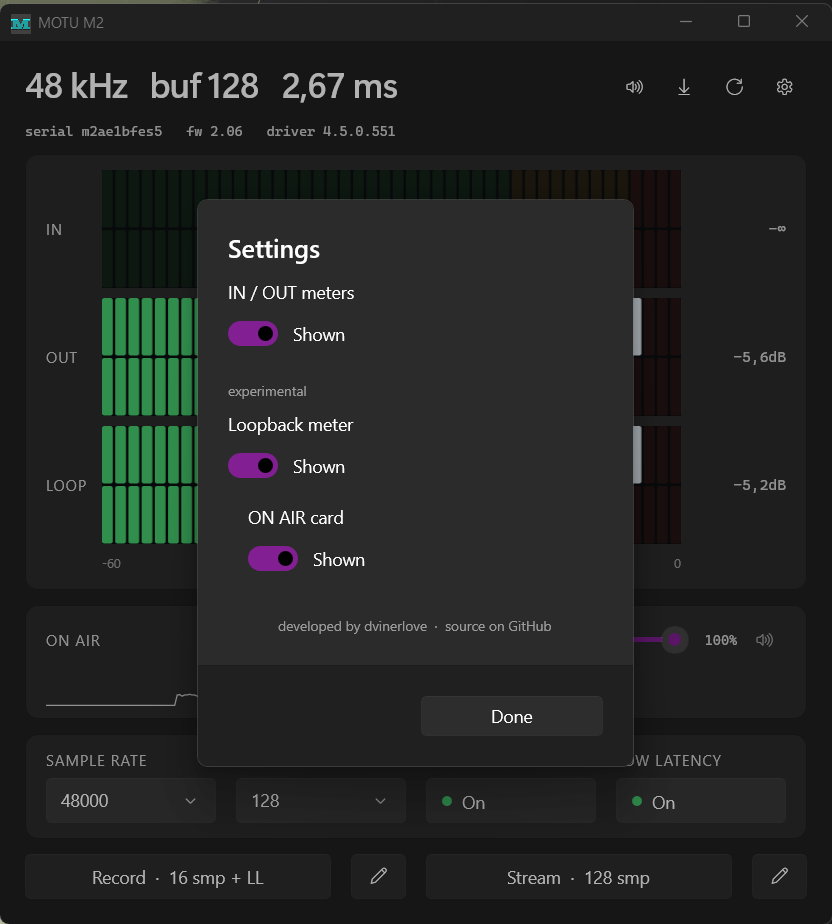
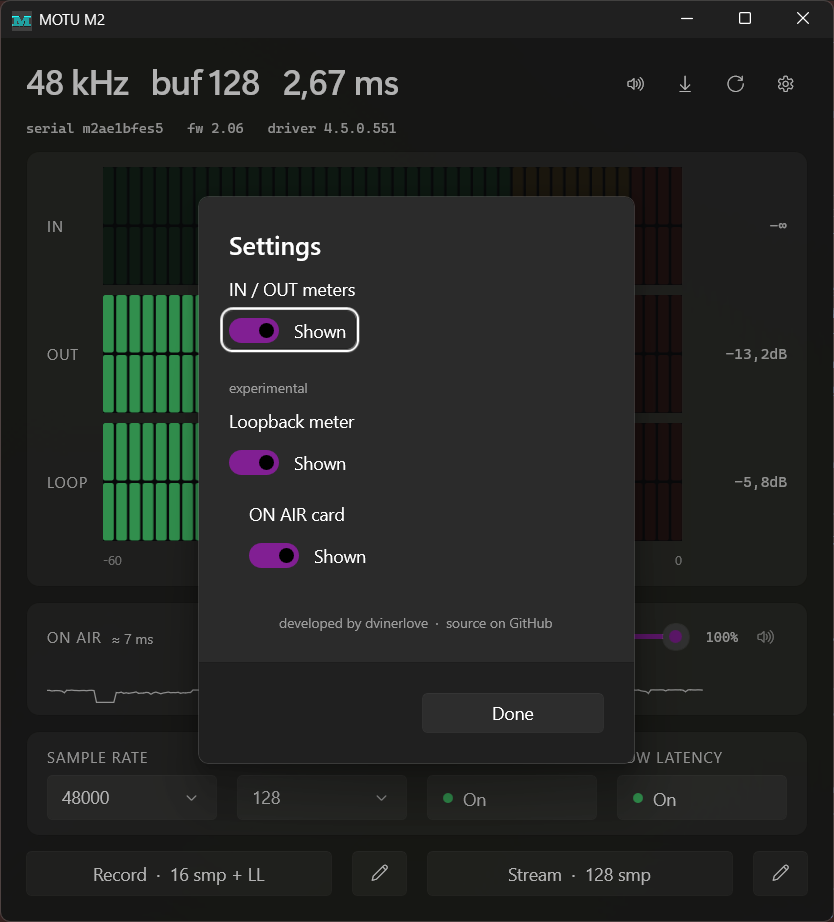
v1.2.0: settings dialog, hotplug overlay, copy pass
Fresh screenshots: live meters during test tone, settings dialog.
UI copy rewritten without em-dash asides. Version bump to 1.2.0.

Generated with [Devin](https://devin.ai)

diff --git a/MainWindow.xaml b/MainWindow.xaml
@@ -22,7 +22,7 @@
             <StackPanel Orientation="Horizontal" Spacing="4" HorizontalAlignment="Right" VerticalAlignment="Center">
                 <Button x:Name="BtnTest" Padding="10" MinWidth="36" MinHeight="32"
                         Background="Transparent" BorderThickness="0"
-                        ToolTipService.ToolTip="play a test tone through the device — watch OUT and LOOP light up">
+                        ToolTipService.ToolTip="play a test tone through the device: watch OUT and LOOP light up">
             <Button.Resources>
                 <StaticResource x:Key="ButtonBackgroundPointerOver" ResourceKey="SubtleFillColorSecondaryBrush"/>
                 <StaticResource x:Key="ButtonBackgroundPressed" ResourceKey="SubtleFillColorTertiaryBrush"/>
@@ -111,7 +111,7 @@
                            Style="{ThemeResource CaptionTextBlockStyle}" CharacterSpacing="60"
                            Foreground="{ThemeResource TextFillColorSecondaryBrush}"/>
                 <Grid x:Name="MeterLoopHost" Grid.Row="2" Grid.Column="1" Margin="12,0" MinHeight="28"
-                      ToolTipService.ToolTip="loopback — playback audio as recorders hear it (what OBS captures); click to reset clip"/>
+                      ToolTipService.ToolTip="loopback: playback audio as recorders hear it (what OBS captures). Click to reset clip"/>
                 <TextBlock x:Name="DbLoop" Grid.Row="2" Grid.Column="2" VerticalAlignment="Center"
                            FontFamily="Cascadia Mono, Consolas" FontSize="12" Width="72" Text="-&#x221E;"
                            TextAlignment="Right"
@@ -139,7 +139,7 @@
                                    Foreground="{ThemeResource TextFillColorSecondaryBrush}"/>
                         <Border x:Name="MixBadge" Padding="5,0" CornerRadius="4" Visibility="Collapsed"
                                 Background="#22EBAF37" BorderBrush="#EBAF37" BorderThickness="1"
-                                ToolTipService.ToolTip="Loopback Mix is live — your mic rides the bus too, echo risk on stream">
+                                ToolTipService.ToolTip="Loopback Mix is live: your mic rides the bus too, echo risk on stream">
                             <TextBlock Text="MIX" FontSize="10" Foreground="#EBAF37"/>
                         </Border>
                         <TextBlock x:Name="LoopNote" VerticalAlignment="Center" FontSize="11"
@@ -148,13 +148,13 @@
                     <StackPanel Orientation="Horizontal" Spacing="6" HorizontalAlignment="Right" VerticalAlignment="Center">
                         <Slider x:Name="LoopLevel" Width="110" Minimum="0" Maximum="100" StepFrequency="5"
                                 VerticalAlignment="Center"
-                                ToolTipService.ToolTip="bus level — how loud the stream hears this bus, independent of your headphone volume"/>
+                                ToolTipService.ToolTip="bus level: how loud the stream hears this bus, independent of your headphone volume"/>
                         <TextBlock x:Name="LoopLevelText" Text="100%" Width="34" VerticalAlignment="Center"
                                    FontFamily="Cascadia Mono, Consolas" FontSize="11" TextAlignment="Right"
                                    Foreground="{ThemeResource TextFillColorSecondaryBrush}"/>
                         <Button x:Name="BtnLoopMute" Padding="10" MinWidth="32" MinHeight="28"
                                 Background="Transparent" BorderThickness="0"
-                                ToolTipService.ToolTip="mute the loopback bus — recorders hear nothing until you unmute">
+                                ToolTipService.ToolTip="mute the loopback bus. Recorders hear nothing until you unmute">
                             <Button.Resources>
                                 <StaticResource x:Key="ButtonBackgroundPointerOver" ResourceKey="SubtleFillColorSecondaryBrush"/>
                                 <StaticResource x:Key="ButtonBackgroundPressed" ResourceKey="SubtleFillColorTertiaryBrush"/>
@@ -168,7 +168,7 @@
 
                 <TextBlock x:Name="LoopWarn" Grid.Row="1" Visibility="Collapsed" FontSize="11"
                            Foreground="#EBAF37"
-                           Text="OUT is playing but the loop stays silent — recorders may be hearing nothing"/>
+                           Text="OUT is playing but the loop stays silent; recorders may be hearing nothing"/>
 
                 <StackPanel x:Name="AirSessions" Grid.Row="2" Spacing="4"/>
                 <Grid x:Name="AirHistoryHost" Grid.Row="3"/>
@@ -201,7 +201,7 @@
                                Foreground="{ThemeResource TextFillColorSecondaryBrush}"/>
                     <Button x:Name="SrcSwitch" HorizontalAlignment="Stretch" Height="36"
                             Padding="12,0" HorizontalContentAlignment="Left"
-                            ToolTipService.ToolTip="sync Windows sample rate to the device — on: bit-exact when everything matches; off: the driver resamples Windows audio so apps at any rate work">
+                            ToolTipService.ToolTip="sync Windows sample rate to the device. On: bit-exact when everything matches. Off: the driver resamples Windows audio so apps at any rate work">
                         <StackPanel Orientation="Horizontal" Spacing="8">
                             <Ellipse x:Name="SrcDot" Width="8" Height="8" VerticalAlignment="Center"
                                      Fill="{ThemeResource TextFillColorTertiaryBrush}"/>
@@ -215,7 +215,7 @@
                                Foreground="{ThemeResource TextFillColorSecondaryBrush}"/>
                     <Button x:Name="LlSwitch" HorizontalAlignment="Stretch" Height="36"
                             Padding="12,0" HorizontalContentAlignment="Left"
-                            ToolTipService.ToolTip="stock panel's &quot;lowest latency safety offsets&quot; — cuts extra driver buffering for live monitoring; keep off for stable playback">
+                            ToolTipService.ToolTip="stock panel's &quot;lowest latency safety offsets&quot;: cuts extra driver buffering for live monitoring. Keep off for stable playback">
                         <StackPanel Orientation="Horizontal" Spacing="8">
                             <Ellipse x:Name="LlDot" Width="8" Height="8" VerticalAlignment="Center"
                                      Fill="{ThemeResource TextFillColorTertiaryBrush}"/>
@@ -264,7 +264,7 @@
                 <StackPanel x:Name="WatchRow" Orientation="Horizontal" Spacing="8"
                             HorizontalAlignment="Center" Margin="0,22,0,0">
                     <Ellipse x:Name="WatchDot" Width="7" Height="7" VerticalAlignment="Center" Fill="#46CD6E"/>
-                    <TextBlock Text="watching for it — plug and play" FontSize="11"
+                    <TextBlock Text="watching for it" FontSize="11"
                                VerticalAlignment="Center"
                                Foreground="{ThemeResource TextFillColorTertiaryBrush}"/>
                 </StackPanel>

diff --git a/MainWindow.xaml.cs b/MainWindow.xaml.cs
@@ -280,8 +280,8 @@ namespace MotuUI {
             devUi = false;
             NoDevTitle.Text = driverMissing ? "driver not installed" : "no device connected";
             NoDevHint.Text = driverMissing
-                ? "motu-ui drives the box through the official MOTU M Series driver — install it, then plug your interface in"
-                : "plug in your M2, M4 or M6 — it connects by itself, no restart needed";
+                ? "motu-ui drives the box through the official MOTU M Series driver. Install it, then plug your interface in"
+                : "plug in your M2, M4 or M6. It connects by itself, no restart needed";
             WatchRow.Visibility = driverMissing ? Visibility.Collapsed : Visibility.Visible;
             NoDevDriverBtn.Visibility = driverMissing ? Visibility.Visible : Visibility.Collapsed;
             Title = "MOTU";
@@ -645,11 +645,11 @@ namespace MotuUI {
                 var html = await http.GetStringAsync("https://motu.com/en-us/download/product/" + page + "/");
                 var m = Regex.Match(Regex.Replace(html, @"\s+", " "),
                     @"fa-windows.{0,400}?PC v([\d.]+).{0,1500}?download-center/download/(\d+)");
-                if (!m.Success) { await Info("Driver update", "Couldn't find the Windows installer on motu.com — page layout may have changed."); return; }
+                if (!m.Success) { await Info("Driver update", "Couldn't find the Windows installer on motu.com. The page layout may have changed."); return; }
                 var cur = drvVer;
-                if (string.IsNullOrEmpty(cur)) { await Info("Driver update", "No device connected — can't read the installed driver version."); return; }
+                if (string.IsNullOrEmpty(cur)) { await Info("Driver update", "No device connected, so the installed driver version is unknown."); return; }
                 var latest = m.Groups[1].Value;
-                if (!Newer(latest, cur)) { await Info("Driver update", "Already up to date — v" + cur + "."); return; }
+                if (!Newer(latest, cur)) { await Info("Driver update", "Already up to date: v" + cur + "."); return; }
                 var ask = new ContentDialog {
                     Title = "Driver update available",
                     Content = "Installed:  " + cur + "\nLatest:  " + latest +
@@ -917,7 +917,7 @@ namespace MotuUI {
                 Background = new Microsoft.UI.Xaml.Media.SolidColorBrush(Colors.Transparent),
                 BorderThickness = new Thickness(0), VerticalAlignment = VerticalAlignment.Center,
             };
-            ToolTipService.SetToolTip(btn, "mute this app — silences it for you and the stream (Windows session volume, not bus-only)");
+            ToolTipService.SetToolTip(btn, "mute this app: silences it for you and the stream (Windows session volume, not bus-only)");
             var row = r;
             btn.Click += (bs, be) => {
                 var s = row.S;

diff --git a/README.md b/README.md
@@ -17,7 +17,7 @@ control is a real driver call, nothing is faked.
 
 <details><summary>More views</summary>
 
-![compact view](docs/screenshot-live.png)
+![compact view](docs/screenshot-compact.png)
 ![settings](docs/screenshot-settings.png)
 
 </details>
